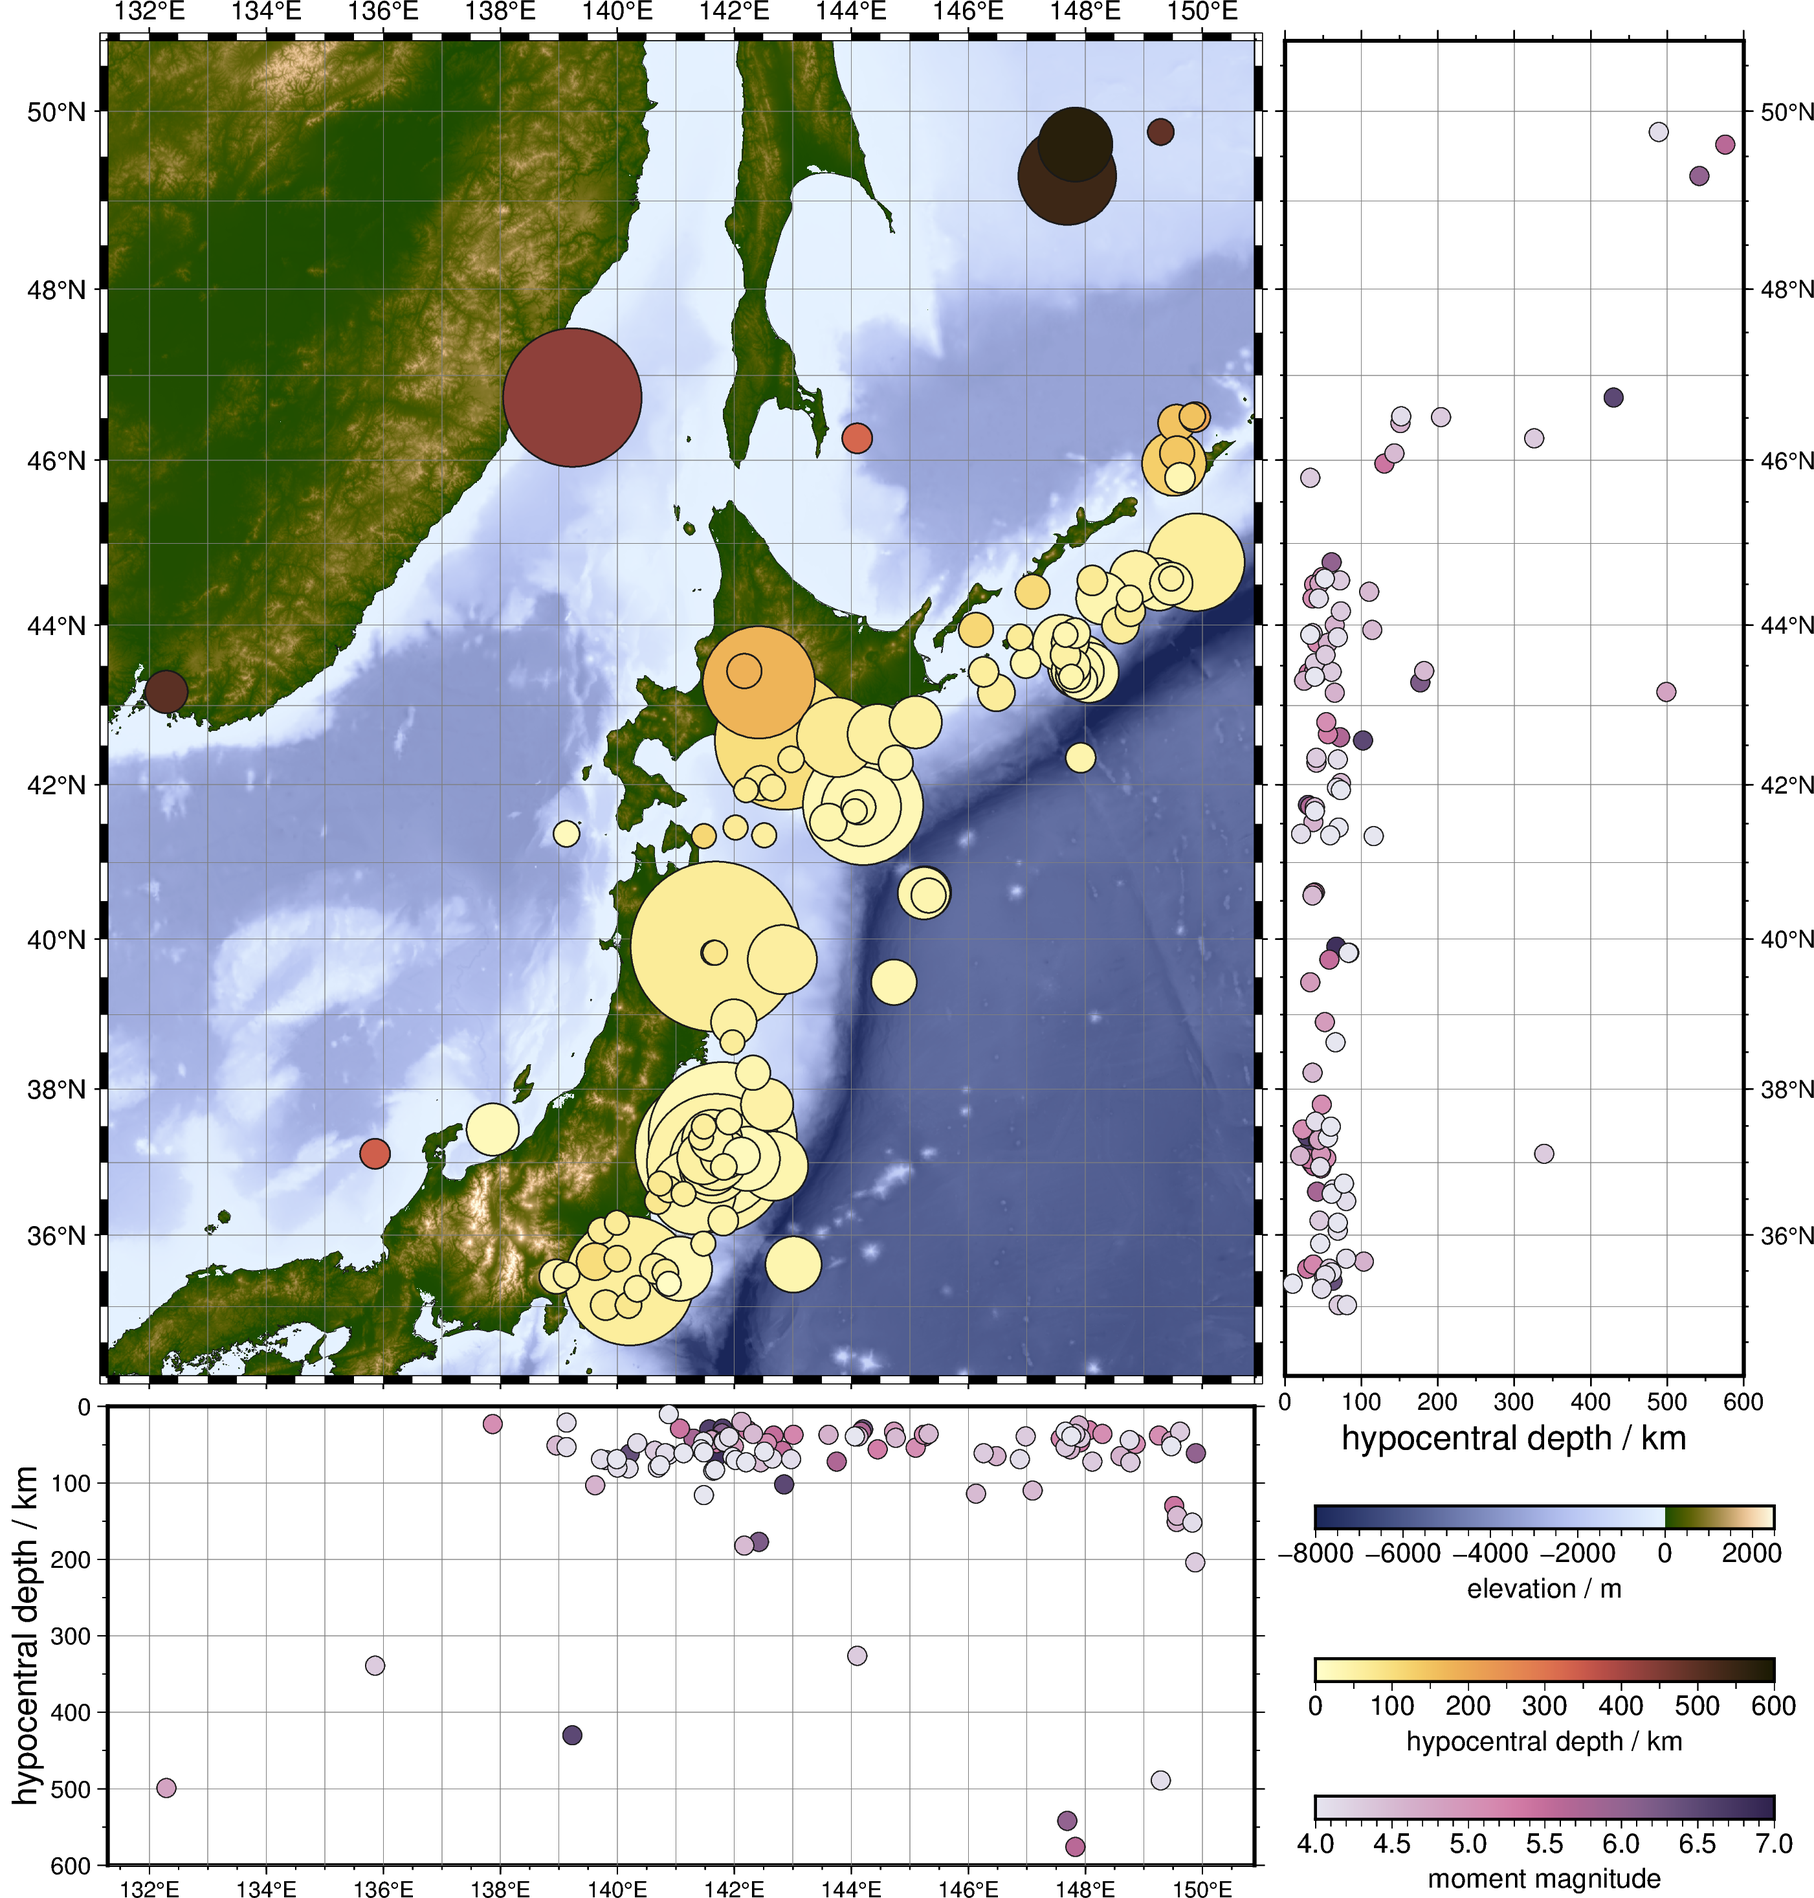
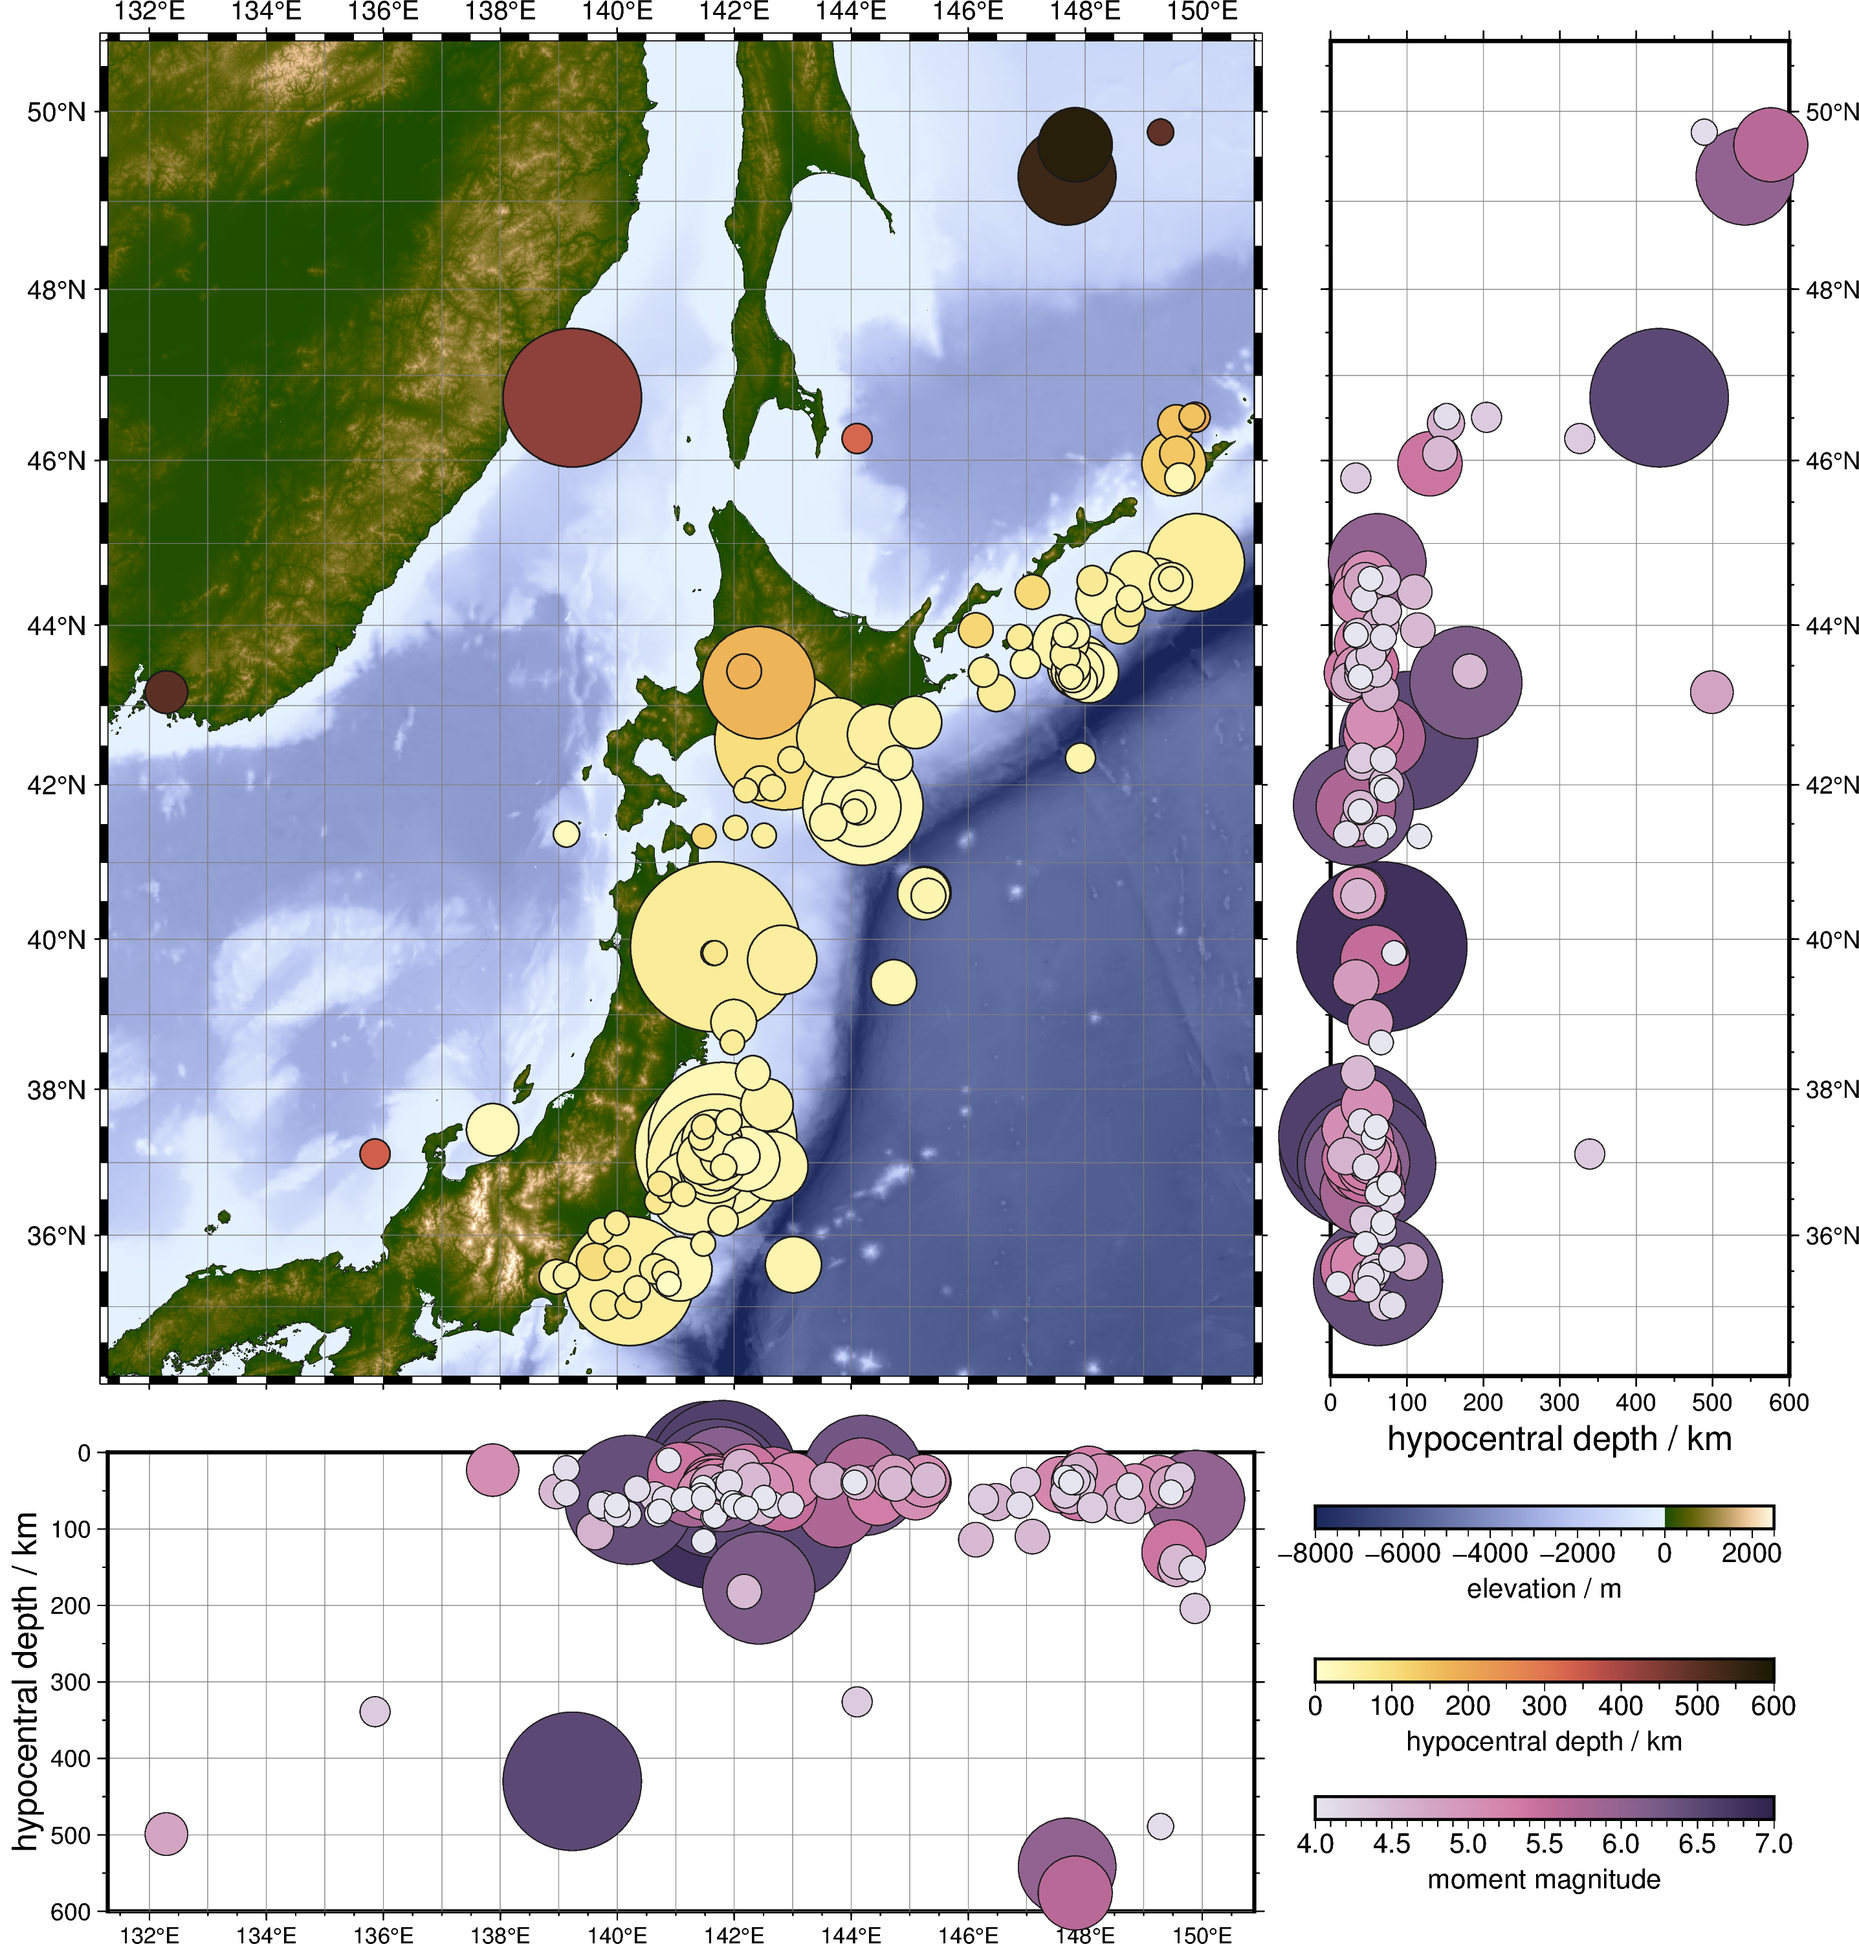
Code updates

diff --git a/000_general_stuff/06_figure_dimensions/map_eqs_map_depthsection.py b/000_general_stuff/06_figure_dimensions/map_eqs_map_depthsection.py
@@ -18,6 +18,7 @@
 import pandas as pd
 import pygmt
 
+
 # %%
 # -----------------------------------------------------------------------------
 # General stuff
@@ -64,10 +65,7 @@ with pygmt.clib.Session() as session:
     session.call_module(
         module="mapproject",
         args=[
-            f"-J{projection_main}",
-            f"-R{region_main}",
-            "-W",
-            f"->{file_dim_main}.txt",
+            f"-J{projection_main}", f"-R{region_main}", "-W", f"->{file_dim_main}.txt"
         ],
     )
 map_dim_main = pd.read_csv(f"{file_dim_main}.txt", sep="\t", names=["width", "hight"])
@@ -83,7 +81,7 @@ region_lat = (
 
 file_dim_lat = "map_dim_lat"
 with pygmt.clib.Session() as session:
-    session.call_module(
+   session.call_module(
         module="mapproject",
         args=[f"-J{projection_lat}", f"-R{region_lat}", "-W", f"->{file_dim_lat}.txt"],
     )
@@ -115,7 +113,7 @@ with pygmt.config(FONT="16p"):
 
 fig.coast(shorelines="1/0.1p,gray10", frame=["NsWe", "a2f0.5g1"])
 
-# Hypocenteral depth
+# Color-coding hypocenteral depth
 pygmt.makecpt(cmap="lajolla", series=[depth_min, depth_max])
 fig.plot(
     x=df_eqs.longitude,
@@ -135,12 +133,14 @@ with pygmt.config(FONT="16p"):
 # Depth sections
 args_dethplot = {
     "fill": df_eqs.magnitude,
+    "size": 0.02 * 2**df_eqs.magnitude,
     "cmap": True,
-    "style": "c0.25c",
+    "style": "cc",
     "pen": "0.3p,gray10",
     "no_clip": True,
 }
 
+# Color-coding moment magnitude
 pygmt.makecpt(cmap="acton", series=[mag_min, mag_max], reverse=True)
 with pygmt.config(FONT="16p"):
     fig.colorbar(
@@ -149,7 +149,7 @@ with pygmt.config(FONT="16p"):
 
 # .............................................................................
 # Longitude-depth plot
-with fig.shift_origin(yshift=f"-{width_depth + 0.4}c"):
+with fig.shift_origin(yshift=f"-{width_depth + 1}c"):
     with pygmt.config(MAP_FRAME_TYPE="plain"):
         fig.basemap(
             # Only needed for bottom longitude axis (South), random latitude range
@@ -167,7 +167,7 @@ with fig.shift_origin(yshift=f"-{width_depth + 0.4}c"):
 
 # .............................................................................
 # Depth-latitude plot
-with fig.shift_origin(xshift="+w+0.4c"):
+with fig.shift_origin(xshift="+w+1c"):
     fig.basemap(
         region=[depth_min, depth_max, lat_min, lat_max],
         projection=f"X{width_depth}c/{hight_depth}c",
@@ -183,7 +183,7 @@ with fig.shift_origin(xshift="+w+0.4c"):
 
 # -----------------------------------------------------------------------------
 fig_name = "map_eqs_map_depthsection"
-# for ext in ["png"]:  # , "pdf"]:
-#     fig.savefig(fname=f"{path_out}/{fig_name}.{ext}")
+for ext in ["png"]:  # , "pdf"]:
+    fig.savefig(fname=f"{path_out}/{fig_name}.{ext}")
 fig.show()
 print(fig_name)
